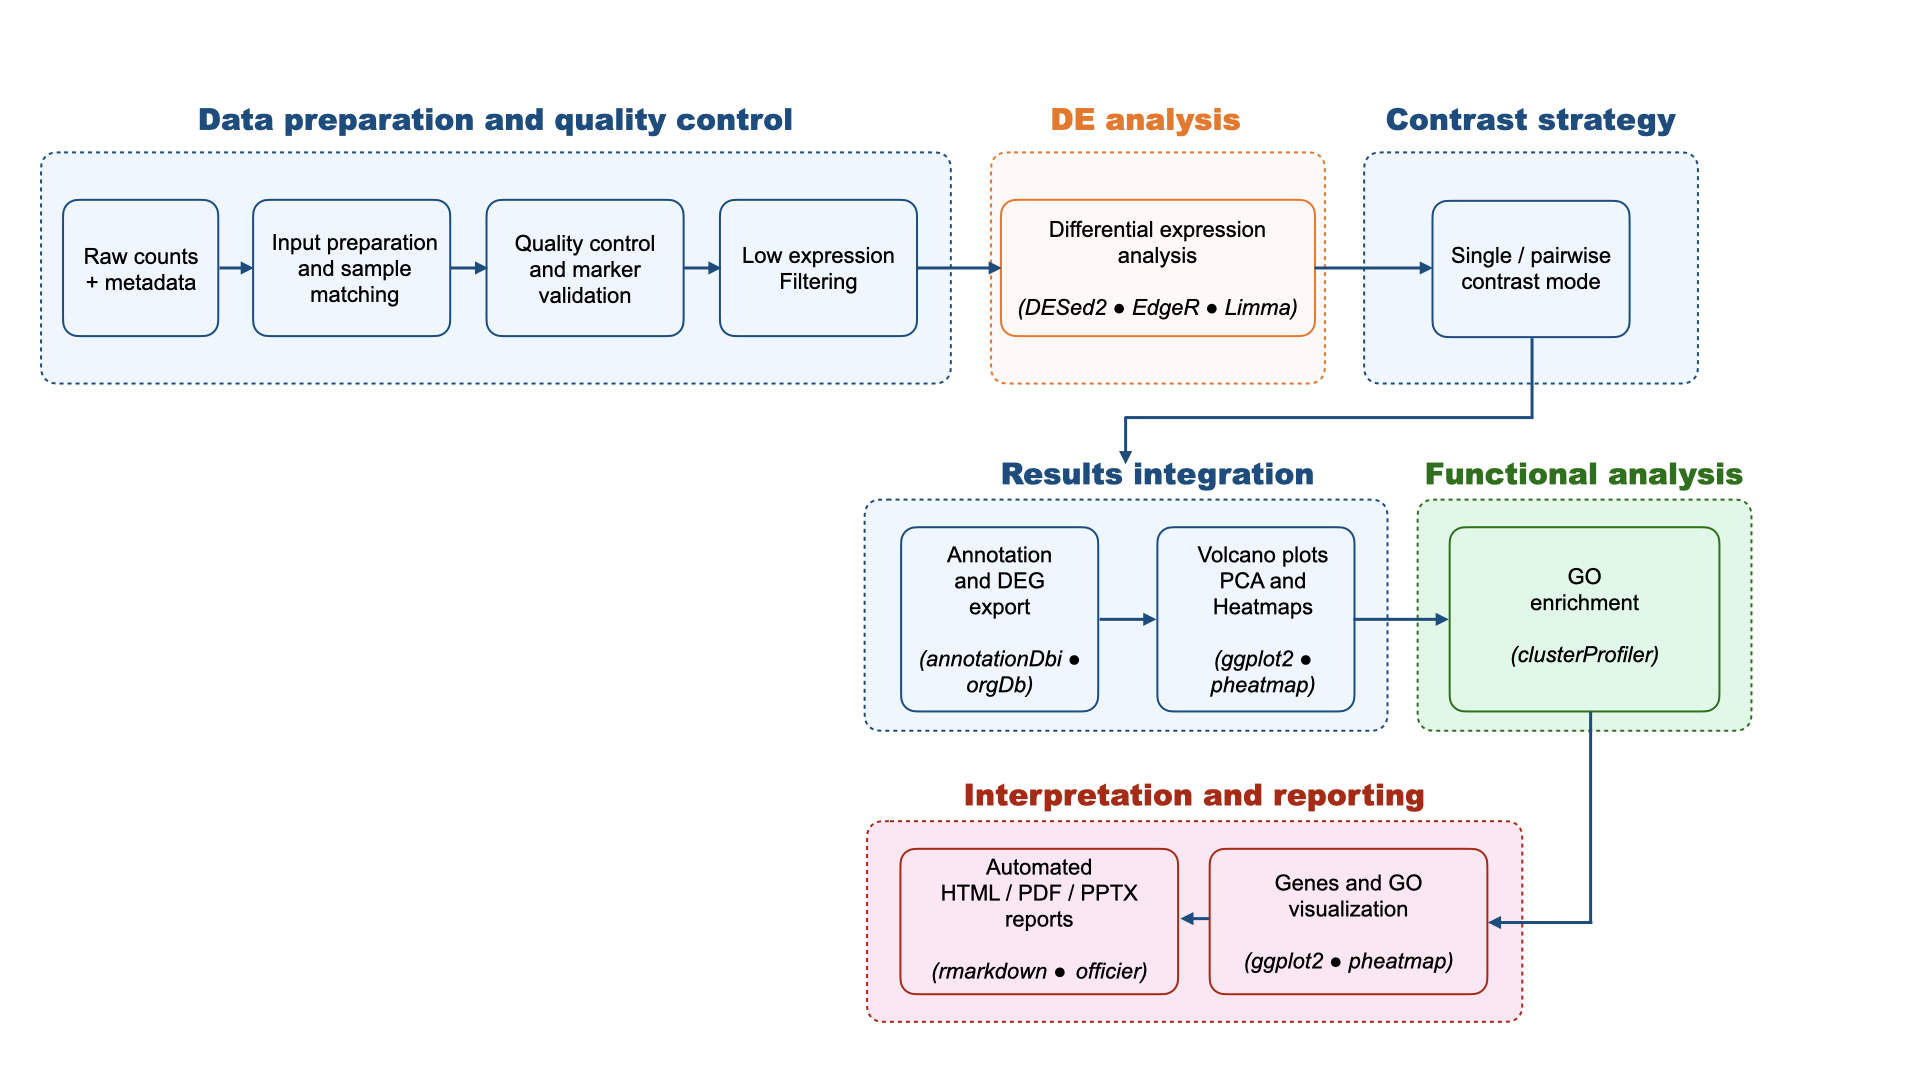
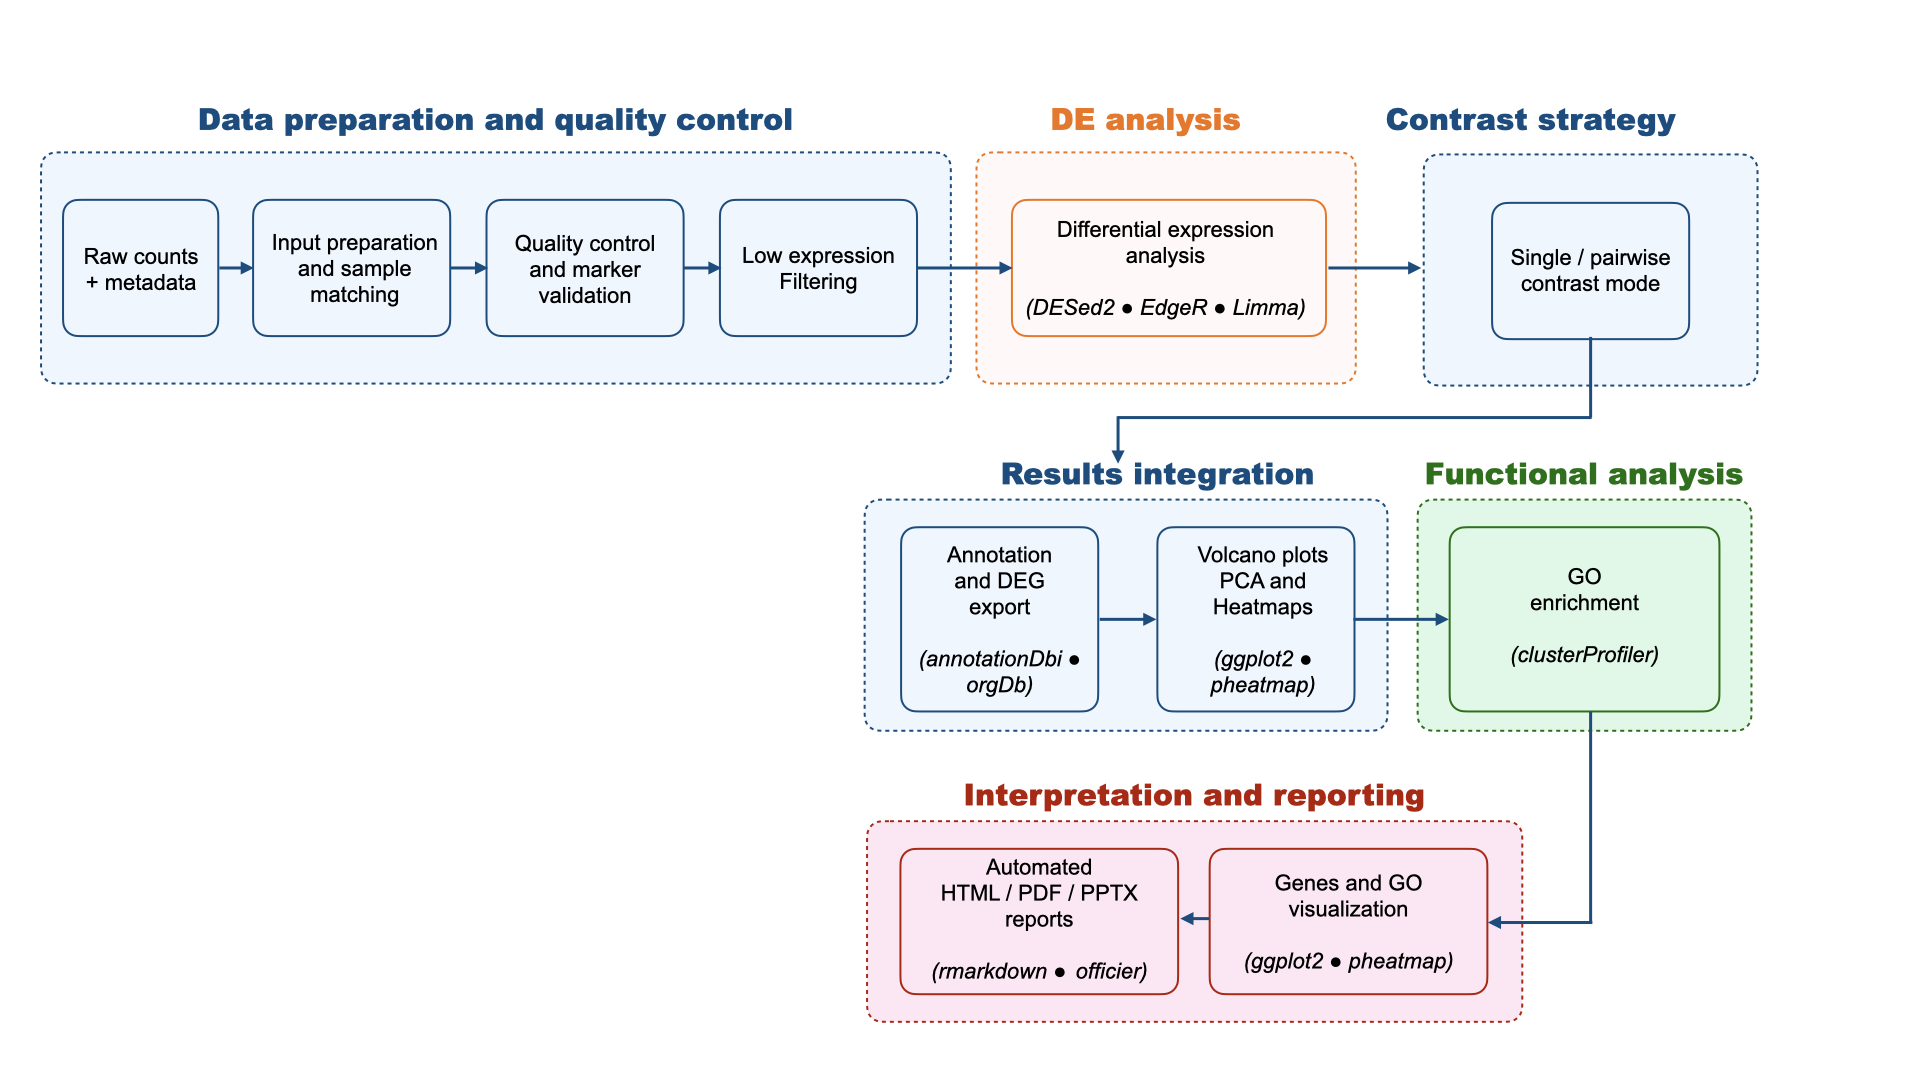
Update README

diff --git a/README.md b/README.md
@@ -15,11 +15,12 @@ reproducible reporting.
 
 <p align="center">
 
+<img src="https://img.shields.io/badge/R-%3E%3D4.3-blue">
+<img src="https://img.shields.io/badge/license-MIT-green"> </a>
 <a href="https://doi.org/10.5281/zenodo.20785178">
 <img src="https://zenodo.org/badge/DOI/10.5281/zenodo.20785178.svg">
-</a> <img src="https://img.shields.io/badge/R-%3E%3D4.3-blue">
-<img src="https://img.shields.io/badge/license-MIT-green">
 <img src="https://img.shields.io/github/stars/ymbouamboua/DEGgo?style=social">
+</a>
 </p>
 
 ## Overview